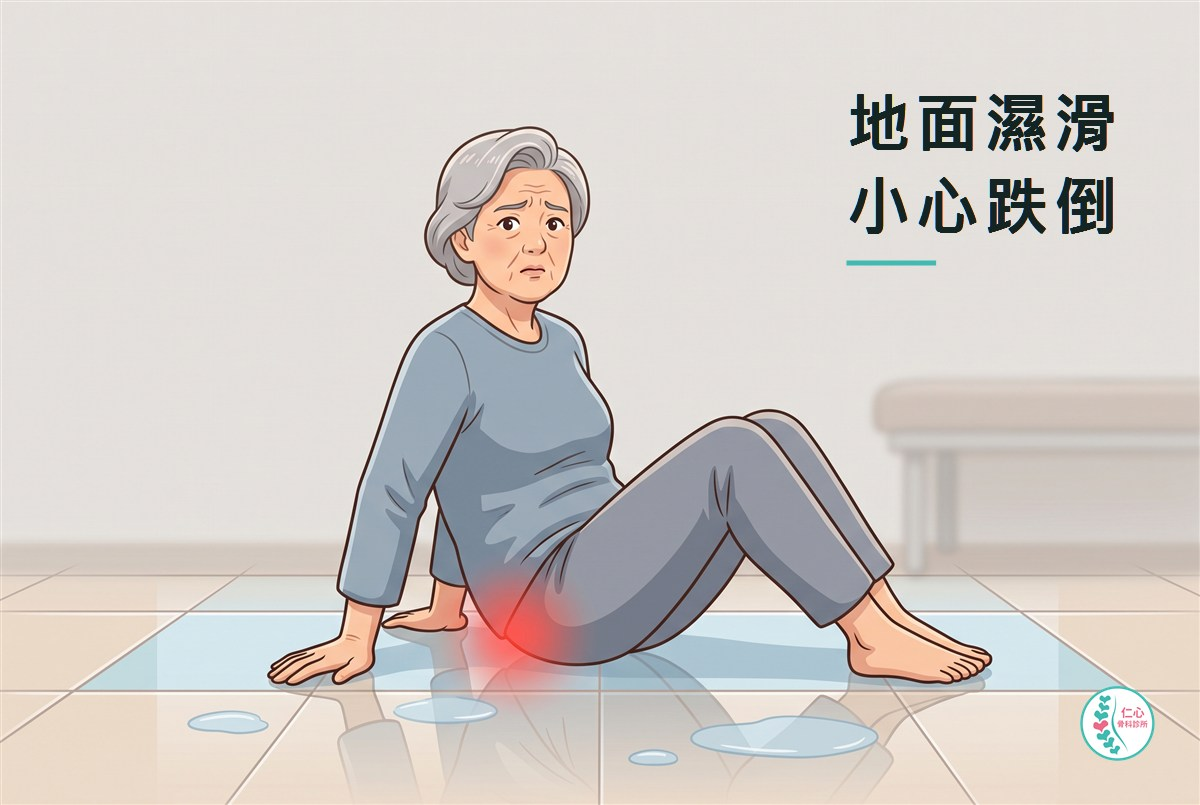
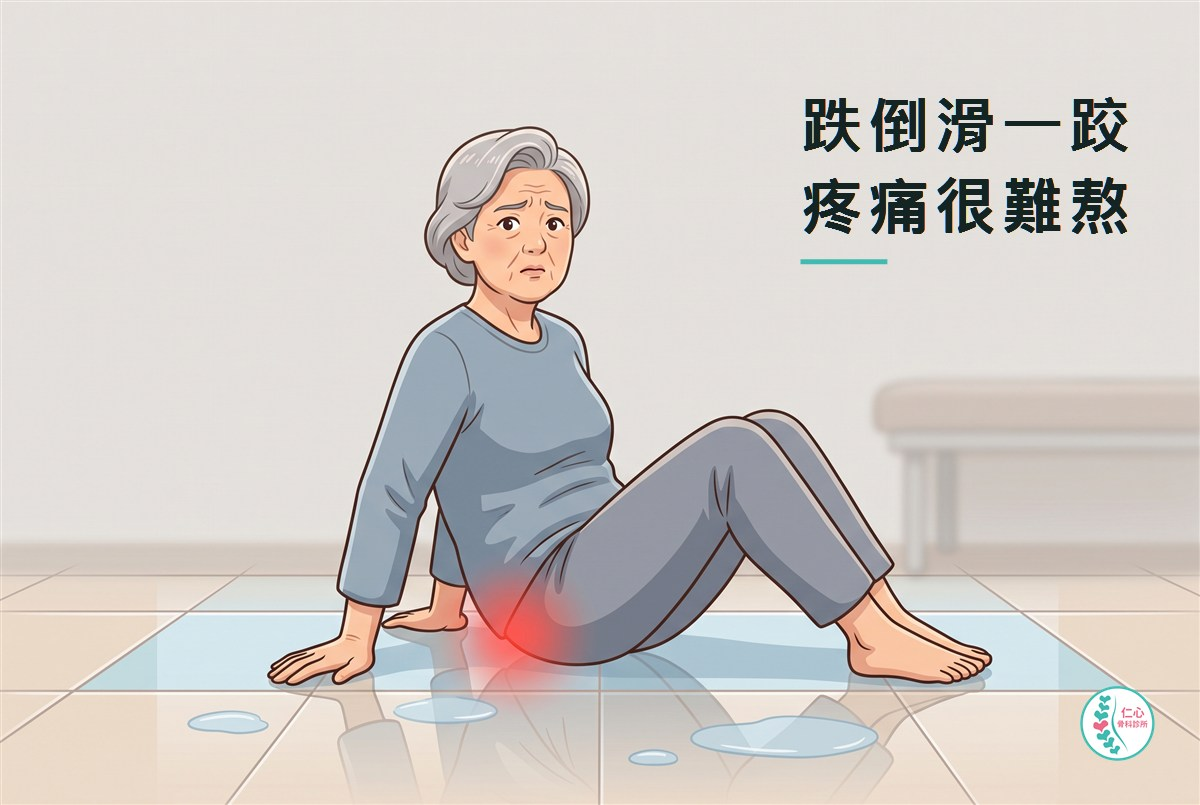
跌倒那篇的封面標題改成押韻版：跌倒滑一跤，疼痛很難熬

Changed region(s): [[0.6475, 0.2174, 0.9558, 0.3416], [0.6475, 0.0932, 0.9558, 0.1863]]

diff --git a/public/20260903-fall-tailbone/index.html b/public/20260903-fall-tailbone/index.html
@@ -54,7 +54,7 @@
         <figure class="hero-figure hero-figure--cover">
           <img src="assets/cover.jpg"
                width="1200" height="805" loading="eager" decoding="async" fetchpriority="high"
-               alt="插畫：一位長輩在濕滑的磁磚地上跌坐，屁股著地處泛紅，表情疼痛而錯愕，右上方寫著「地面濕滑　小心跌倒」。">
+               alt="插畫：一位長輩在濕滑的磁磚地上跌坐，屁股著地處泛紅，表情疼痛而錯愕，右上方寫著「跌倒滑一跤　疼痛很難熬」。">
         </figure>
       </div>
     </div>
